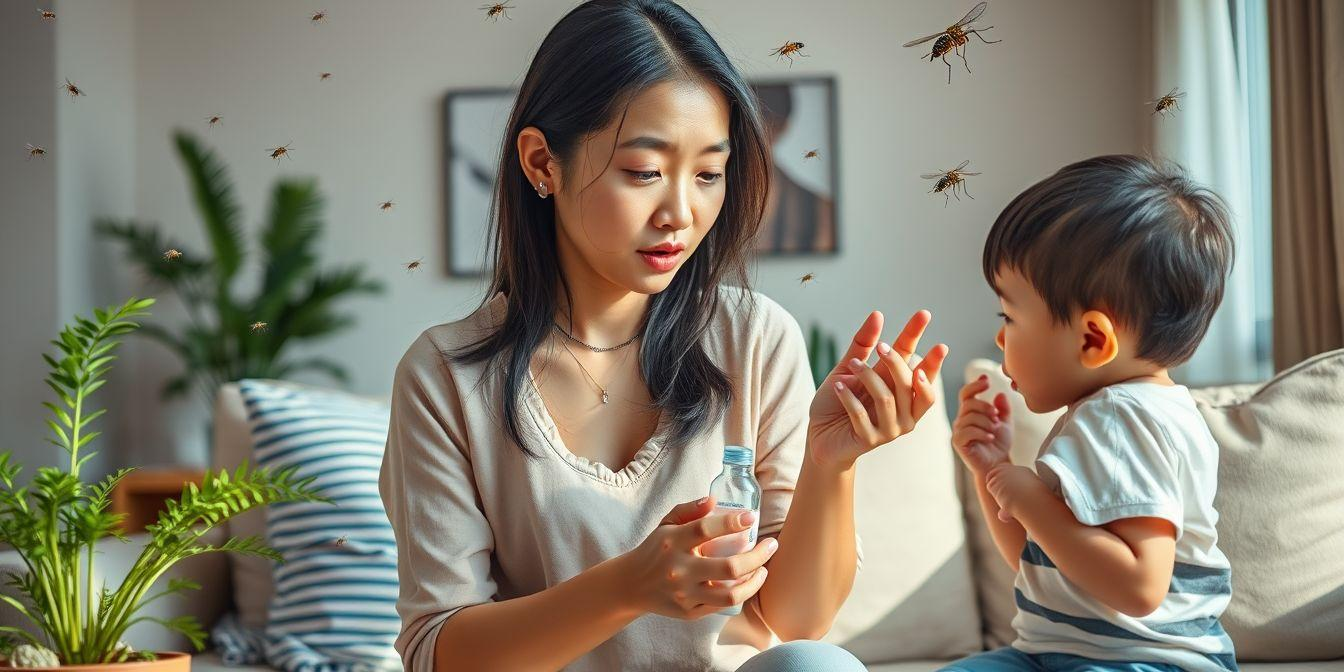
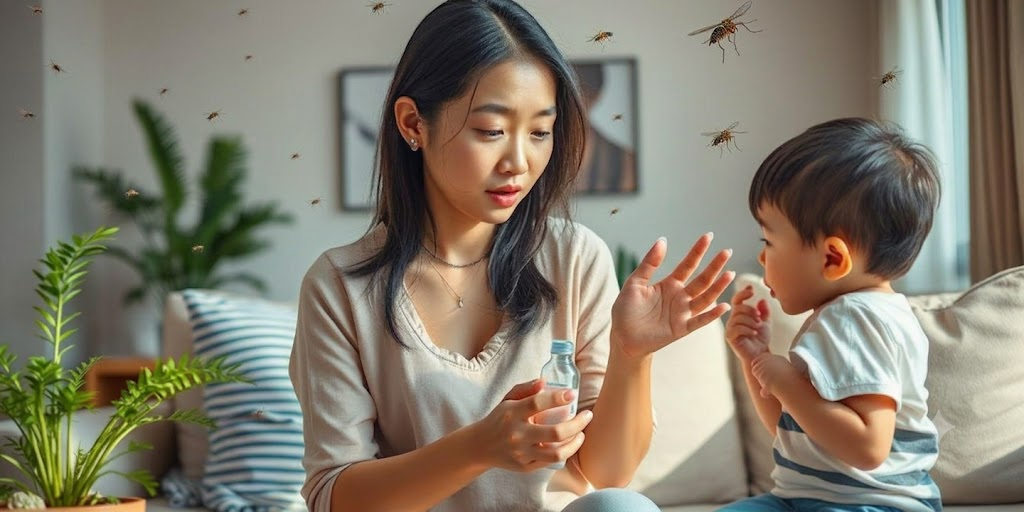
Update Gambar

diff --git a/src/utils/constants.js b/src/utils/constants.js
@@ -98,14 +98,14 @@ export const INGREDIENTS = [
     scientific: "Moringa oleifera",
     percentage: "50%",
     desc: "Kaya akan flavonoid dan tanin yang berfungsi sebagai insektisida alami untuk mengusir nyamuk secara efektif.",
-    img: "/images/ingredients/kelor.png"
+    img: "/images/ingredients/gambar1.png"
   },
   {
     title: "Serbuk Tempurung Kelapa",
     scientific: "Coconut Shell",
     percentage: "35%",
     desc: "Bahan bakar organik yang mendukung teknologi Low Smoke dengan emisi asap sangat rendah.",
-    img: "/images/ingredients/coconut.png"
+    img: "/images/ingredients/gambar2.png"
   },
   {
     title: "Minyak Atsiri Eucalyptus",
